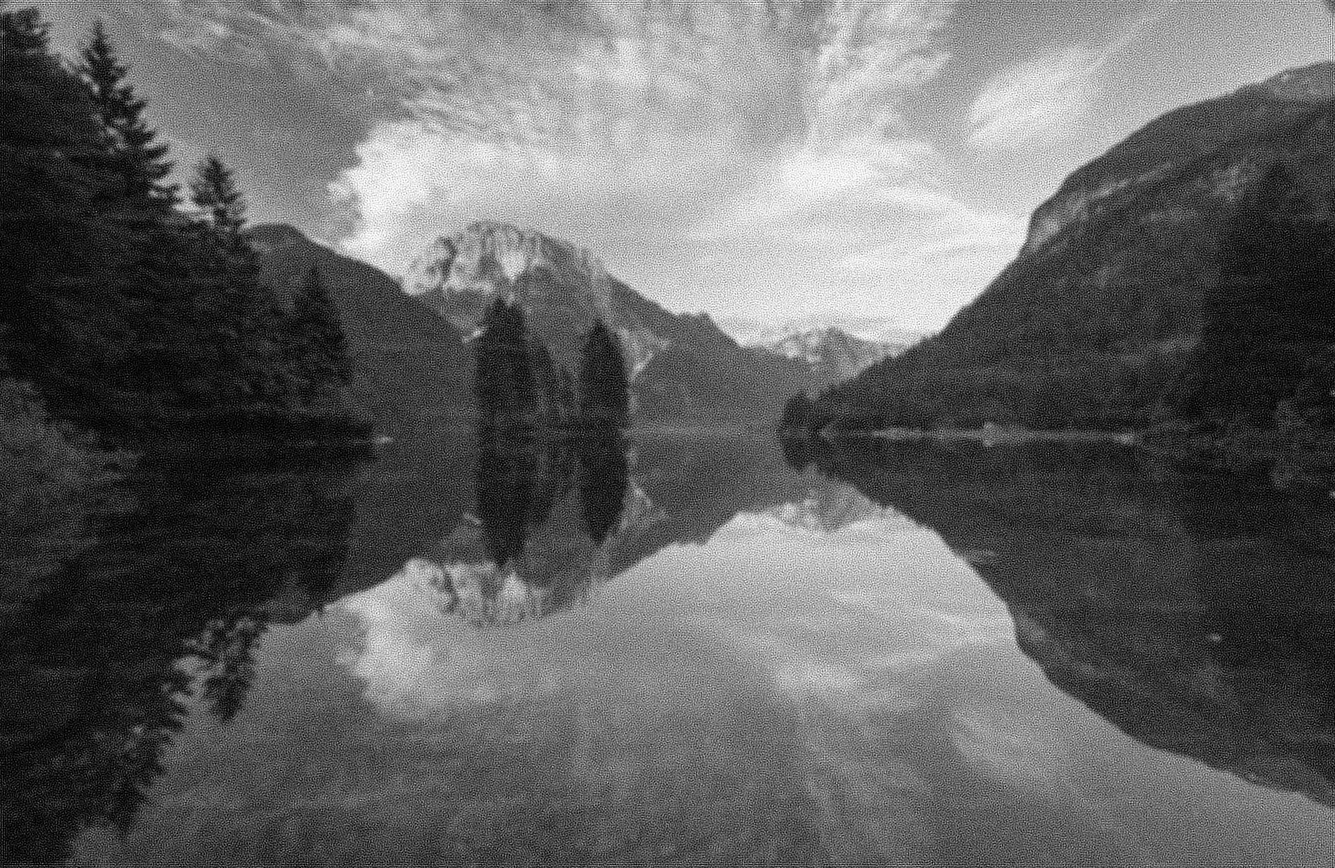
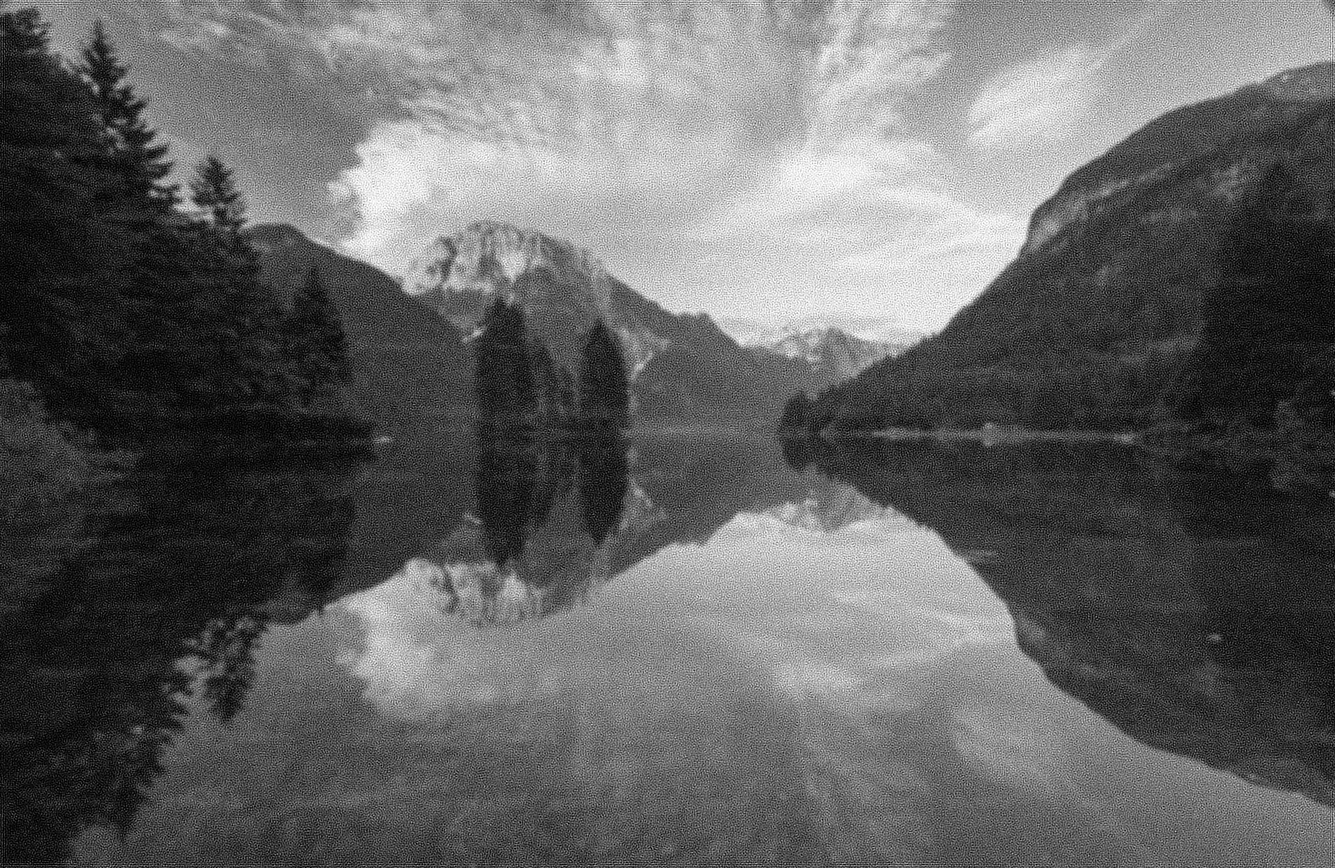
attemping lucy-richardson

diff --git a/VisionProject/project.py b/VisionProject/project.py
@@ -51,6 +51,16 @@ def apply_wiener_filter(noisy_image, kernel_size=5):
     # Scale the result back to [0, 255] and convert to uint8
     return np.clip(deblurred_image * 255, 0, 255).astype(np.uint8)
 
+def apply_lucy_richardson(noisy_image, psf, iterations=30):
+    # Normalize the noisy image to the range [0, 1]
+    noisy_image_normalized = noisy_image / 255.0
+    
+    # Perform Lucy-Richardson deconvolution
+    deblurred_image = richardson_lucy(noisy_image_normalized, psf, num_iter=iterations)
+    
+    # Scale the result back to [0, 255] and convert to uint8
+    deblurred_image = np.clip(deblurred_image * 255, 0, 255).astype(np.uint8)
+    return deblurred_image
 
 def main():
     # Paths for input and output images
@@ -77,6 +87,13 @@ def main():
     # Step 4: Apply Wiener filtering
     deblurred_image_wiener = apply_wiener_filter(noisy_image, kernel_size=5)
     save_image(deblurred_image_wiener, os.path.join(output_dir, "deblurred_image_wiener.jpg"))
+    
+    # Step 5: Apply Lucy-Richardson deconvolution
+    psf = cv2.getGaussianKernel(15, 5)  # Create a Gaussian PSF matching the blur
+    psf = psf @ psf.T  # Convert 1D kernel to 2D
+
+    deblurred_image_lucy = apply_lucy_richardson(noisy_image, psf, iterations=30)
+    save_image(deblurred_image_lucy, os.path.join(output_dir, "deblurred_image_lucy.jpg"))
 
     
 if __name__ == "__main__":
